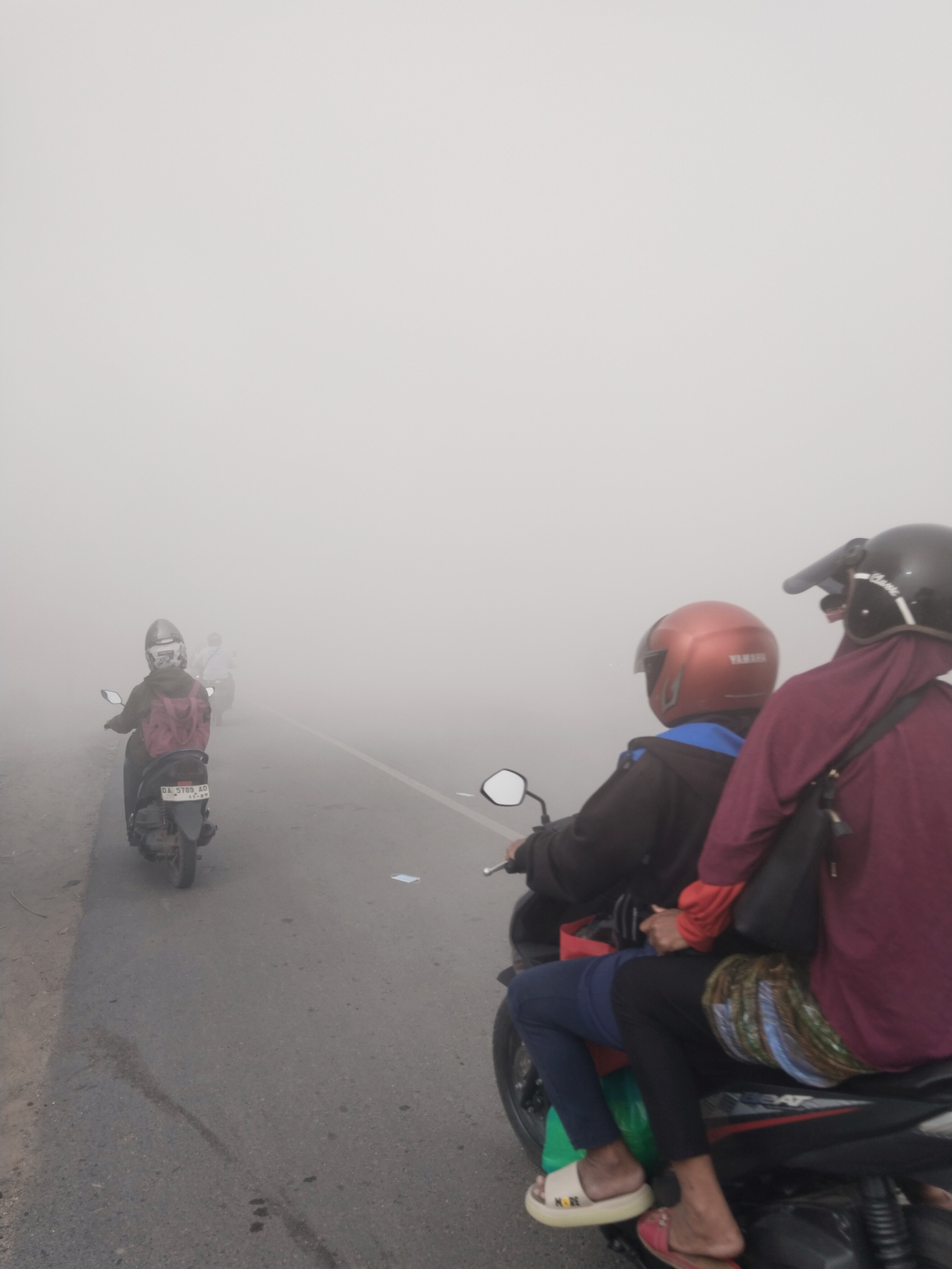
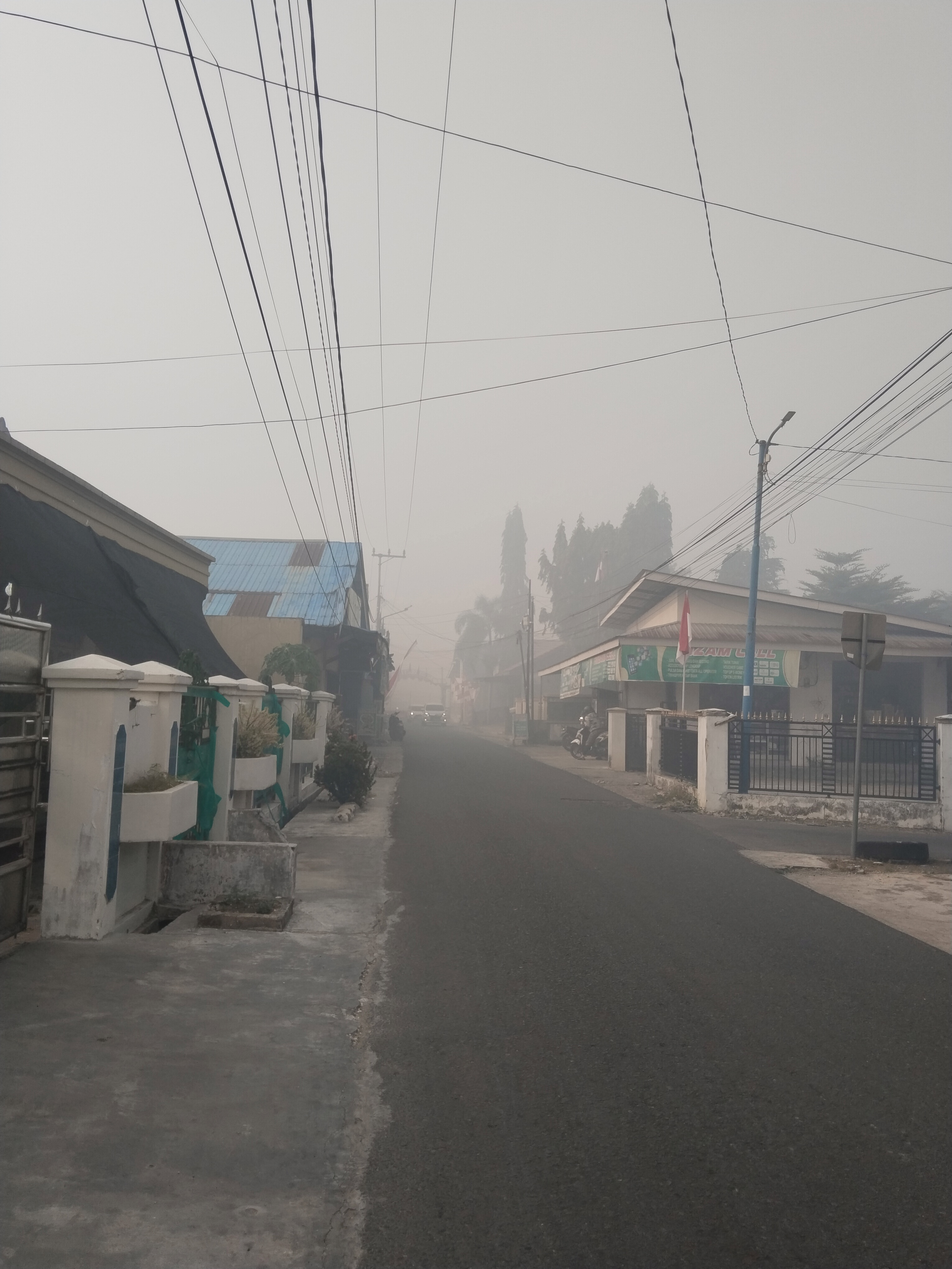
Menambahkan foto,data di metadata,file README, dan file LICENSE

diff --git a/README.md b/README.md
@@ -1,0 +1,128 @@
+## Identitas Kelompok
+- **Kelompok:** 3
+- **Mata Kuliah:** Berkas Sistem
+- **Program Studi:** Teknik Informatika
+- **Universitas:** Universitas Islam Kalimantan Muhammad Arsyad Al Banjari
+
+# Dataset Klasifikasi Ketebalan Kabut Asap
+
+## 1. Deskripsi Dataset
+
+Dataset ini merupakan kumpulan citra kabut asap di wilayah Indonesia pada tahun 2026 yang digunakan untuk keperluan pembelajaran dan pengembangan klasifikasi citra.
+
+Dataset dikelompokkan menjadi tiga kategori berdasarkan tingkat ketebalan asap, yaitu:
+
+- **Tipis:** Asap terlihat samar dan objek masih dapat terlihat dengan jelas.
+- **Sedang:** Asap mulai menghalangi pandangan sehingga objek terlihat agak samar.
+- **Tebal:** Asap terlihat pekat dan menghalangi pandangan sehingga objek sulit terlihat.
+
+Setiap gambar dilengkapi metadata untuk mencatat informasi nama file, kategori asap, sumber gambar, URL sumber, fotografer, deskripsi, dan jarak pandang apabila tersedia.
+
+## 2. Struktur Folder
+
+```text
+Dataset_KabutAsap/
+├── README.md
+├── metadata.csv
+├── LICENSE
+├── .gitignore
+└── dataset/
+    ├── tipis/
+    ├── sedang/
+    └── tebal/
+```
+
+## 3. Cara Mengunduh Dataset
+
+Dataset dapat diunduh melalui beberapa cara berikut.
+
+### A. Mengunduh melalui GitHub
+
+1. Buka halaman repository GitHub.
+2. Klik tombol **Code**.
+3. Pilih **Download ZIP**.
+4. Ekstrak file ZIP ke komputer.
+5. Dataset siap digunakan.
+
+### B. Mengunduh menggunakan Git
+
+Jalankan perintah berikut pada terminal:
+
+```bash
+git clone https://github.com/MuhammadAzmiAzkia2510010458/BERKAS_B_03_Dataset_KabutAsap
+```
+
+## 4. Cara Menggunakan Dataset
+
+1. Buka folder `Dataset_KabutAsap`.
+2. Masuk ke folder `dataset`.
+3. Pilih kategori gambar yang ingin digunakan:
+   - `tipis`
+   - `sedang`
+   - `tebal`
+4. Gunakan gambar sesuai kebutuhan pembelajaran atau pengujian klasifikasi citra.
+5. Gunakan file `metadata.csv` untuk melihat informasi setiap gambar.
+
+Contoh membaca dataset menggunakan Python:
+
+```python
+import os
+
+folder_dataset = "dataset"
+
+kategori = ["tipis", "sedang", "tebal"]
+
+for kelas in kategori:
+    folder = os.path.join(folder_dataset, kelas)
+
+    jumlah = len([
+        file for file in os.listdir(folder)
+        if file.lower().endswith((".jpg", ".jpeg", ".png"))
+    ])
+
+    print(f"{kelas}: {jumlah} gambar")
+```
+
+## 5. Informasi Metadata
+
+Informasi gambar disimpan dalam file `metadata.csv` dengan kolom berikut:
+
+| Kolom | Keterangan |
+|---|---|
+| Nama File dan berada didalam folder | Lokasi file gambar dalam repository |
+| Kondisi Asap | Kategori ketebalan asap |
+| Sumber | Asal gambar atau dokumentasi |
+| Sumber URL | Tautan halaman sumber gambar |
+| Photographer | Nama fotografer atau pemilik dokumentasi |
+| Deskripsi | Penjelasan singkat kondisi pada gambar |
+| Jarak pandang | Informasi jarak pandang apabila tersedia |
+
+## 6. Riwayat Commit Anggota Kelompok
+
+https://github.com/MuhammadAzmiAzkia2510010458/BERKAS_B_03_Dataset_KabutAsap/commits/main/
+
+| No. | Nama Anggota | NPM | Bukti Riwayat Commit Anggota |
+|---|---|---|---|
+| 1 | [Muhammad Azmi Azkia] | [2510010458] | [https://github.com/MuhammadAzmiAzkia2510010458/BERKAS_B_03_Dataset_KabutAsap/commits/main/?author=MuhammadAzmiAzkia2510010458] |
+| 2 | [Nama Anggota 2] | [NPM] | [Link commit] |
+| 3 | [Nama Anggota 3] | [NPM] | [Link commit] |
+| 4 | [Nama Anggota 4] | [NPM] | [Link commit] |
+| 5 | [Nama Anggota 5] | [NPM] | [Link commit] |
+
+## 7. Sumber Dataset
+
+Gambar dikumpulkan dari berbagai sumber dokumentasi mengenai kondisi kabut asap di Indonesia pada tahun 2026.
+
+Informasi sumber gambar, fotografer, dan tautan sumber dicatat dalam file `metadata.csv` apabila tersedia.
+
+## 8. Lisensi
+
+Repository ini menggunakan lisensi
+[Creative Commons Attribution 4.0 International (CC-BY-4.0)](https://creativecommons.org/licenses/by/4.0/).
+
+Penggunaan kembali gambar tetap harus memperhatikan lisensi dan hak cipta
+dari masing-masing pemilik gambar.
+
+## 9. Catatan
+
+Dataset dapat mengalami penambahan dan pembaruan selama proses pengumpulan data berlangsung.
